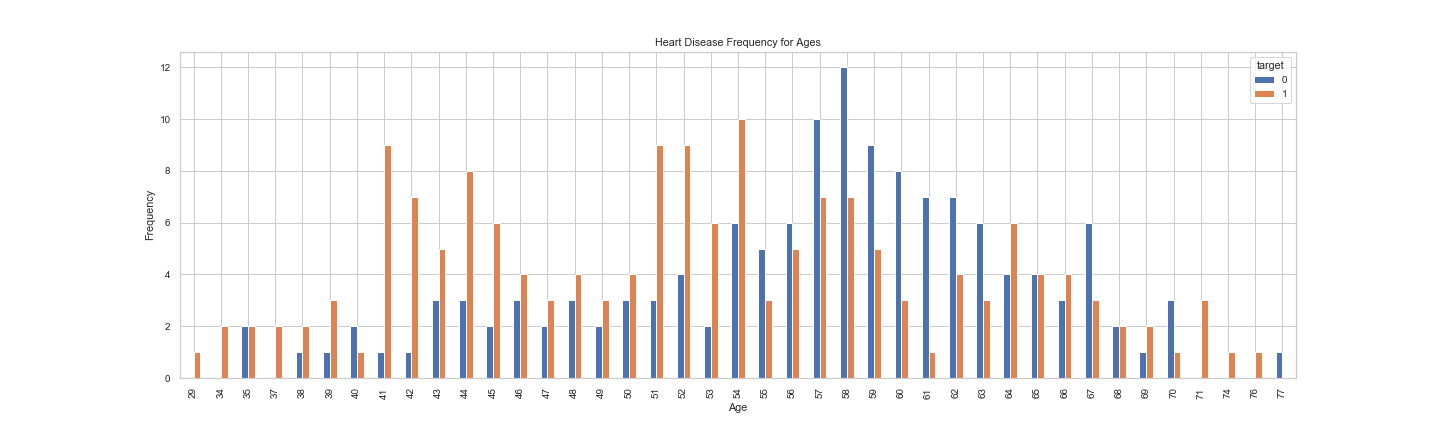
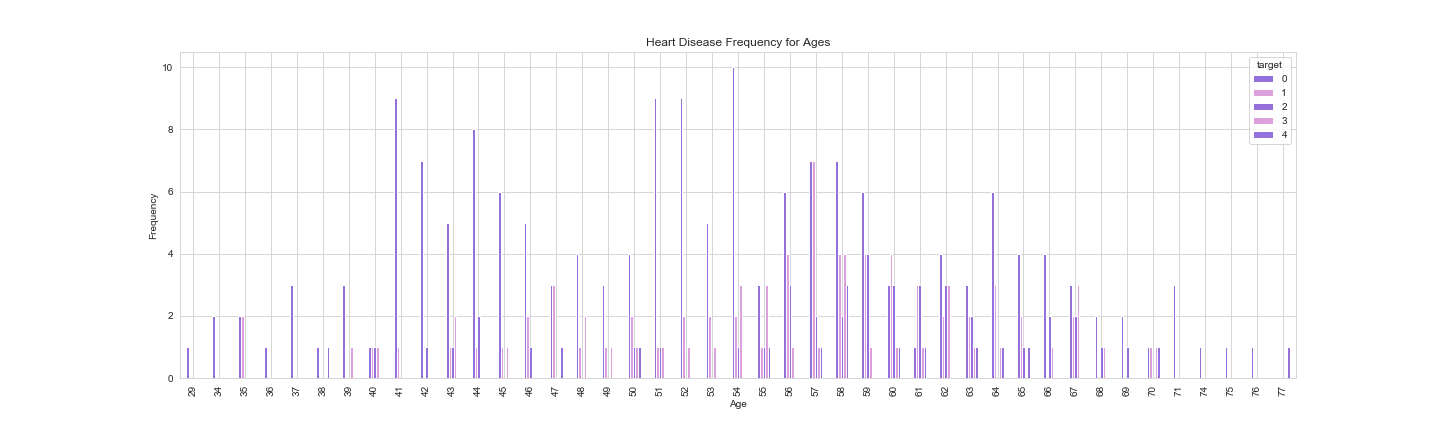
ADD: code for new ds

Changed region(s): [[0.0938, 0.1505, 0.9062, 0.963], [0.4375, 0.0903, 0.5938, 0.1204]]

diff --git a/test.py b/test.py
@@ -11,6 +11,13 @@ import matplotlib.pyplot as plt
 import seaborn as sns
 from sklearn.linear_model import LogisticRegression
 from sklearn.model_selection import train_test_split
+from sklearn.neighbors import KNeighborsClassifier
+from sklearn.naive_bayes import GaussianNB
+from sklearn.ensemble import RandomForestClassifier
+from sklearn.tree import DecisionTreeClassifier
+from sklearn.naive_bayes import GaussianNB
+from sklearn.svm import SVC
+from sklearn.metrics import confusion_matrix
 import os
 # Input data files are available in the "../input/" directory.
 
@@ -18,97 +25,105 @@ import os
     
 
 def data_analysis(df):
+    
     """
     precentage of the heart disease
     x label is for the count of people 
     """
-    sns.countplot(x="target", data=df, palette="bwr")
-    plt.show()
-    countNoDisease = len(df[df.target == 0])
-    countHaveDisease = len(df[df.target == 1])
-    print("Percentage of Patients Haven't Heart Disease: {:.2f}%".format((countNoDisease / (len(df.target))*100)))
-    print("Percentage of Patients Have Heart Disease: {:.2f}%".format((countHaveDisease / (len(df.target))*100)))
+    if 'target' in df.columns:
+        sns.countplot(x="target", data=df, palette="bwr", color = ['lightsteelblue', 'cornflowerblue'])
+        plt.show()
+        count_No_Disease = len(df[df.target == 0])
+        count_Have_Disease = len(df[df.target == 1])
+        print("Percentage of Patients Haven't Heart Disease: {:.2f}%".format((count_No_Disease / (len(df.target))*100)))
+        print("Percentage of Patients Have Heart Disease: {:.2f}%".format((count_Have_Disease / (len(df.target))*100)))
 
     """
     precentage of female and male
     x label is for the count of people
     """
-    sns.countplot(x='sex', data=df, palette="mako_r")
-    plt.xlabel("Sex (0 = female, 1= male)")
-    plt.show()
-    
-    countFemale = len(df[df.sex == 0])
-    countMale = len(df[df.sex == 1])
-    print("Percentage of Female Patients: {:.2f}%".format((countFemale / (len(df.sex))*100)))
-    print("Percentage of Male Patients: {:.2f}%".format((countMale / (len(df.sex))*100)))
+    if 'sex' in df.columns:
+        sns.countplot(x='sex', data=df, palette="mako_r", color = ['blue','darkblue'])
+        plt.xlabel("Sex (0 = female, 1= male)")
+        plt.show()
+        
+        count_Female = len(df[df.sex == 0])
+        count_Male = len(df[df.sex == 1])
+        print("Percentage of Female Patients: {:.2f}%".format((count_Female / (len(df.sex))*100)))
+        print("Percentage of Male Patients: {:.2f}%".format((count_Male / (len(df.sex))*100)))
 
     """
     heart disease with the age
     """
-    pd.crosstab(df.age,df.target).plot(kind="bar",figsize=(20,6))
-    plt.title('Heart Disease Frequency for Ages')
-    plt.xlabel('Age')
-    plt.ylabel('Frequency')
-    plt.savefig('heartDiseaseAndAges.png')
-    plt.show()
+    if 'age' in df.columns and 'target' in df.columns:
+        pd.crosstab(df.age,df.target).plot(kind="bar",figsize=(20,6), color = ['mediumpurple','plum'])
+        plt.title('Heart Disease Frequency for Ages')
+        plt.xlabel('Age')
+        plt.ylabel('Frequency')
+        plt.savefig('heartDiseaseAndAges.png')
+        plt.show()
 
 
     """
     heart disease with the sex
     seprate the people and the disease 
     """
-    pd.crosstab(df.sex,df.target).plot(kind="bar",figsize=(15,6),color=['#1CA53B','#AA1111' ])
-    plt.title('Heart Disease Frequency for Sex')
-    plt.xlabel('Sex (0 = Female, 1 = Male)')
-    plt.xticks(rotation=0)
-    plt.legend(["Haven't Disease", "Have Disease"])
-    plt.ylabel('Frequency')
-    plt.show()
-    
+    if 'sex' in df.columns and 'target' in df.columns:
+        pd.crosstab(df.sex,df.target).plot(kind="bar",figsize=(15,6),color=['limegreen','green' ])
+        plt.title('Heart Disease Frequency for Sex')
+        plt.xlabel('Sex (0 = Female, 1 = Male)')
+        plt.xticks(rotation=0)
+        plt.legend(["Haven't Disease", "Have Disease"])
+        plt.ylabel('Frequency')
+        plt.show()
+        
     """ 
     relation with disease and age 
     scatter plot with age range and the different maximum heart rate
     red one is for disease and blue is for non disease
     see the correlation with heart rate and disease 
     """
-    plt.scatter(x=df.age[df.target==1], y=df.thalach[(df.target==1)], c="red")
-    plt.scatter(x=df.age[df.target==0], y=df.thalach[(df.target==0)])
-    plt.legend(["Disease", "Not Disease"])
-    plt.xlabel("Age")
-    plt.ylabel("Maximum Heart Rate")
-    plt.show()
+    if 'sex' in df.columns and 'target' in df.columns:
+        plt.scatter(x=df.age[df.target==1], y=df.thalach[(df.target==1)], c="red")
+        plt.scatter(x=df.age[df.target==0], y=df.thalach[(df.target==0)])
+        plt.legend(["Disease", "Not Disease"])
+        plt.xlabel("Age")
+        plt.ylabel("Maximum Heart Rate")
+        plt.show()
 
-
-    pd.crosstab(df.slope,df.target).plot(kind="bar",figsize=(15,6),color=['#DAF7A6','#FF5733' ])
-    plt.title('Heart Disease Frequency for Slope')
-    plt.xlabel('The Slope of The Peak Exercise ST Segment ')
-    plt.xticks(rotation = 0)
-    plt.ylabel('Frequency')
-    plt.show()
+    if 'slope' in df.columns and 'target' in df.columns:
+        pd.crosstab(df.slope,df.target).plot(kind="bar",figsize=(15,6),color=['orange','moccasin' ])
+        plt.title('Heart Disease Frequency for Slope')
+        plt.xlabel('The Slope of The Peak Exercise ST Segment ')
+        plt.xticks(rotation = 0)
+        plt.ylabel('Frequency')
+        plt.show()
     
     
     """
     Fasting Blood Sugar with disease
     to see whether fasting blood suger will influence the people have disease
     """    
-    pd.crosstab(df.fbs,df.target).plot(kind="bar",figsize=(15,6),color=['#FFC300','#581845' ])
-    plt.title('Heart Disease Frequency According To FBS')
-    plt.xlabel('FBS - (Fasting Blood Sugar > 120 mg/dl) (1 = true; 0 = false)')
-    plt.xticks(rotation = 0)
-    plt.legend(["Haven't Disease", "Have Disease"])
-    plt.ylabel('Frequency of Disease or Not')
-    plt.show()
-    
+    if 'fbs' in df.columns and 'target' in df.columns:
+        pd.crosstab(df.fbs,df.target).plot(kind="bar",figsize=(15,6),color=['goldenrod','gold' ])
+        plt.title('Heart Disease Frequency According To FBS')
+        plt.xlabel('FBS - (Fasting Blood Sugar > 120 mg/dl) (1 = true; 0 = false)')
+        plt.xticks(rotation = 0)
+        plt.legend(["Haven't Disease", "Have Disease"])
+        plt.ylabel('Frequency of Disease or Not')
+        plt.show()
+        
     """
     Chest Pain Type with disease
     to see whether different chest type will influence the people have disease
     """
-    pd.crosstab(df.cp,df.target).plot(kind="bar",figsize=(15,6),color=['#11A5AA','#AA1190' ])
-    plt.title('Heart Disease Frequency According To Chest Pain Type')
-    plt.xlabel('Chest Pain Type')
-    plt.xticks(rotation = 0)
-    plt.ylabel('Frequency of Disease or Not')
-    plt.show()
+    if 'cp' in df.columns and 'target' in df.columns:
+        pd.crosstab(df.cp,df.target).plot(kind="bar",figsize=(15,6),color=['tomato','orangered' ])
+        plt.title('Heart Disease Frequency According To Chest Pain Type')
+        plt.xlabel('Chest Pain Type')
+        plt.xticks(rotation = 0)
+        plt.ylabel('Frequency of Disease or Not')
+        plt.show()
     
     
     
@@ -218,19 +233,24 @@ def logistic_regression(x_train,y_train,x_test,y_test,learningRate,iteration):
     
     print("Manuel Test Accuracy: {:.2f}%".format((100 - np.mean(np.abs(y_prediction - y_test))*100)))
     
-def machine_learning_model():
+def machine_learning_model(x_train,y_train,x_test,y_test):
           
-    #logistic regression   
+    # All model list here 
+    # store the acc into accuracies dictionary
+    
+    """logistic regression """
     logistic_regression(x_train,y_train,x_test,y_test,1,100)
-    #KNN
-    from sklearn.neighbors import KNeighborsClassifier
+    
+    
+    
+    """KNN"""
     knn = KNeighborsClassifier(n_neighbors = 2)  # n_neighbors means k
     knn.fit(x_train.T, y_train.T)
     prediction = knn.predict(x_test.T)
     
     print("{} NN Score: {:.2f}%".format(2, knn.score(x_test.T, y_test.T)*100))
     
-    # try ro find best k value
+    #try ro find best k value
     scoreList = []
     for i in range(1,20):
         knn2 = KNeighborsClassifier(n_neighbors = i)  # n_neighbors means k
@@ -248,8 +268,7 @@ def machine_learning_model():
     print("Maximum KNN Score is {:.2f}%".format(acc))
     
     
-    #SVM
-    from sklearn.svm import SVC
+    """SVM """
     svm = SVC(random_state = 1)
     svm.fit(x_train.T, y_train.T)
     
@@ -257,8 +276,8 @@ def machine_learning_model():
     accuracies['SVM'] = acc
     print("Test Accuracy of SVM Algorithm: {:.2f}%".format(acc))
     
-    #Naive Bayes
-    from sklearn.naive_bayes import GaussianNB
+    
+    """Naive Bayes"""
     nb = GaussianNB()
     nb.fit(x_train.T, y_train.T)
     
@@ -266,8 +285,8 @@ def machine_learning_model():
     accuracies['Naive Bayes'] = acc
     print("Accuracy of Naive Bayes: {:.2f}%".format(acc))
     
-    #Decision tree
-    from sklearn.tree import DecisionTreeClassifier
+    
+    """Decision tree"""
     dtc = DecisionTreeClassifier()
     dtc.fit(x_train.T, y_train.T)
     
@@ -275,8 +294,8 @@ def machine_learning_model():
     accuracies['Decision Tree'] = acc
     print("Decision Tree Test Accuracy {:.2f}%".format(acc))
     
-    #Random forest
-    from sklearn.ensemble import RandomForestClassifier
+    
+    """Random forest"""
     rf = RandomForestClassifier(n_estimators = 1000, random_state = 1)
     rf.fit(x_train.T, y_train.T)
     
@@ -286,8 +305,8 @@ def machine_learning_model():
     
     
     
-    #compare
-    colors = ["purple", "green", "orange", "magenta","#CFC60E","#0FBBAE"]
+    #compare and plot the acc
+    colors = ["#DDA0DD", "#FFD700", "#FF6347", "#6495ED","#9ACD32","#FA8072"]
     
     sns.set_style("whitegrid")
     plt.figure(figsize=(16,5))
@@ -301,7 +320,11 @@ def machine_learning_model():
     
     
     
-    # Predicted values
+    """ 
+    All Predicted values 
+    and get the confuse matrix
+    """
+    
     lr = LogisticRegression()
     lr.fit(x_train.T,y_train.T)
     y_head_lr = lr.predict(x_test.T)
@@ -312,7 +335,7 @@ def machine_learning_model():
     y_head_nb = nb.predict(x_test.T)
     y_head_dtc = dtc.predict(x_test.T)
     y_head_rf = rf.predict(x_test.T)
-    from sklearn.metrics import confusion_matrix
+    
     
     cm_lr = confusion_matrix(y_test,y_head_lr)
     cm_knn = confusion_matrix(y_test,y_head_knn)
@@ -352,7 +375,7 @@ def machine_learning_model():
     plt.show()
         
 def main():
-    
+    # the dataset only from cleverland
     df = pd.read_csv("data/heart.csv")
     df.head(20)
     print(df.target.value_counts())
@@ -363,7 +386,20 @@ def main():
     #get the mean of total dataset
     df.groupby('target').mean()
     print(df.groupby('target').mean())
+    machine_learning_model(x_train,y_train, x_test, y_test)
+    
+    # the dataset from all three places
+    df = pd.read_csv("data/All_data_total.csv")
+    df.head(20)
+    print(df.target.value_counts())
+    data_analysis(df)
 
+    x_train,y_train, x_test, y_test = data_for_model(df)
+
+    #get the mean of total dataset
+    df.groupby('target').mean()
+    print(df.groupby('target').mean())
+    machine_learning_model(x_train,y_train, x_test, y_test)
 
 
 
